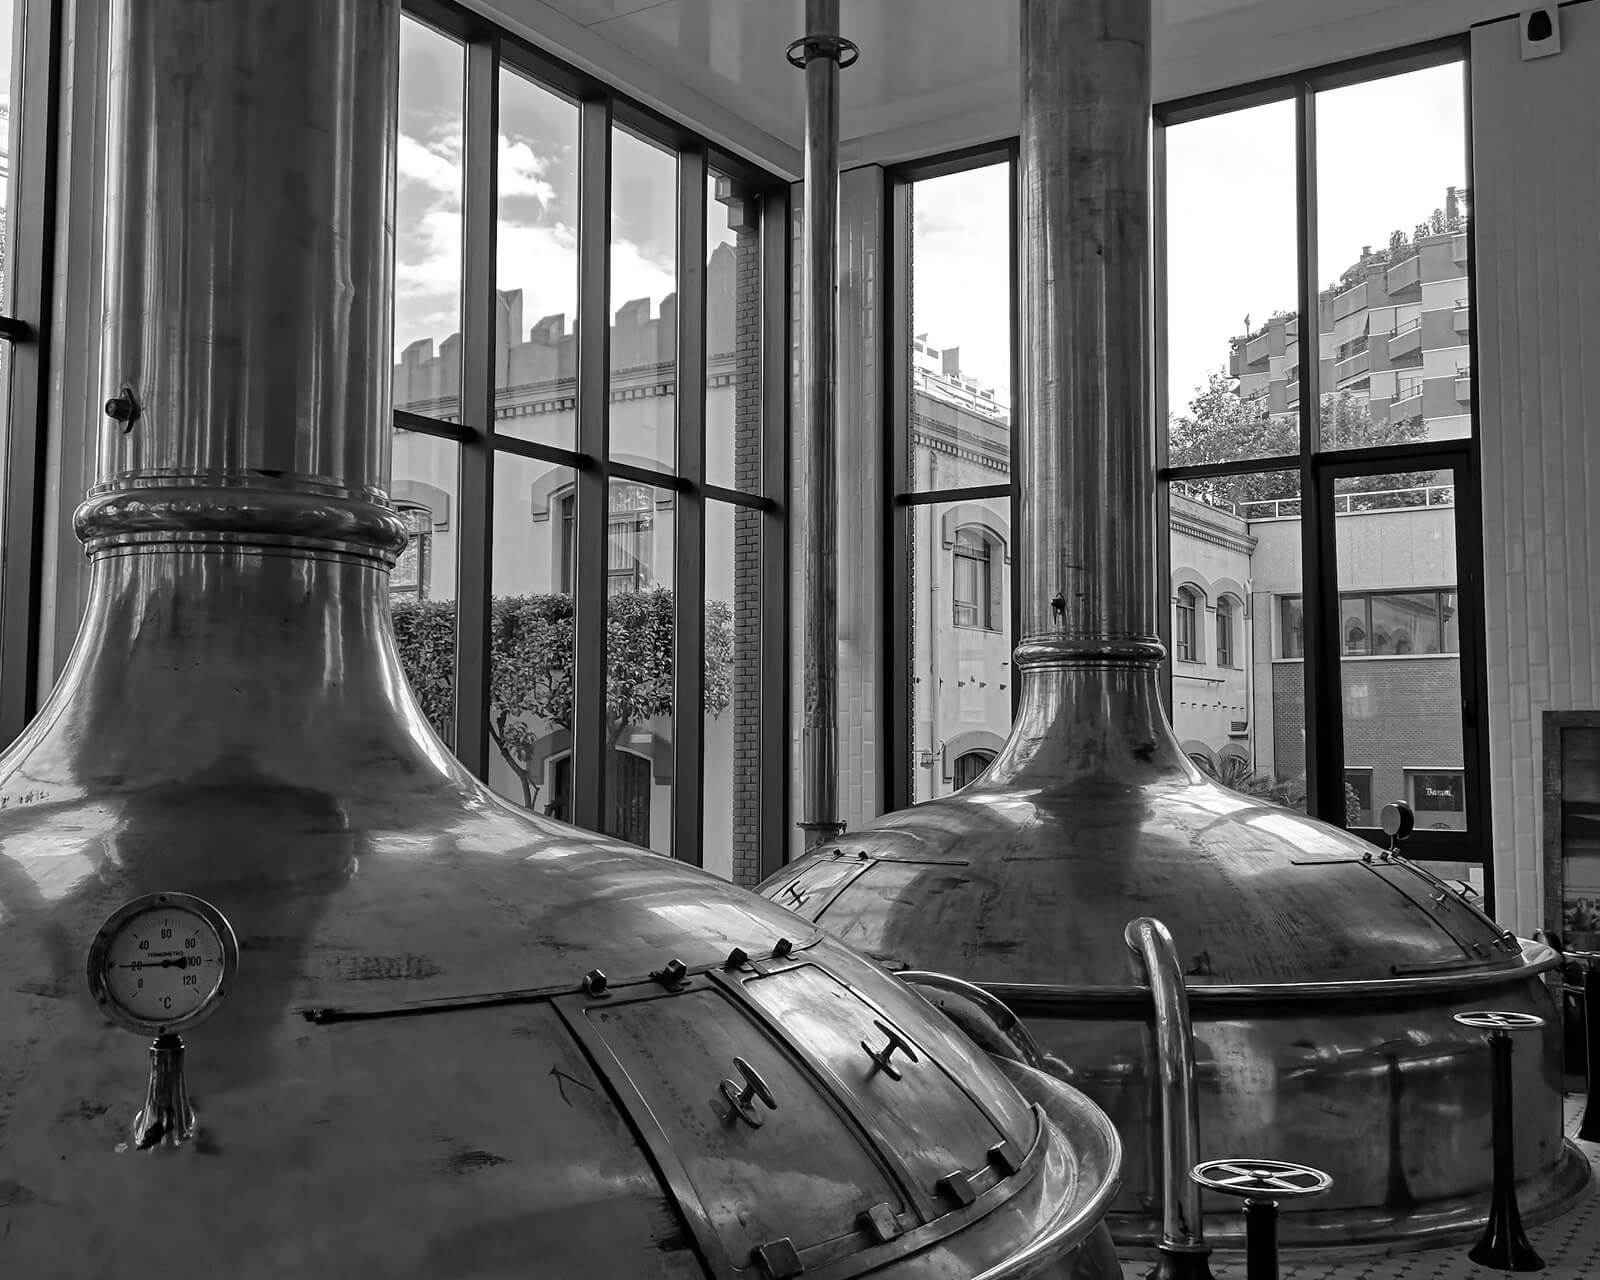
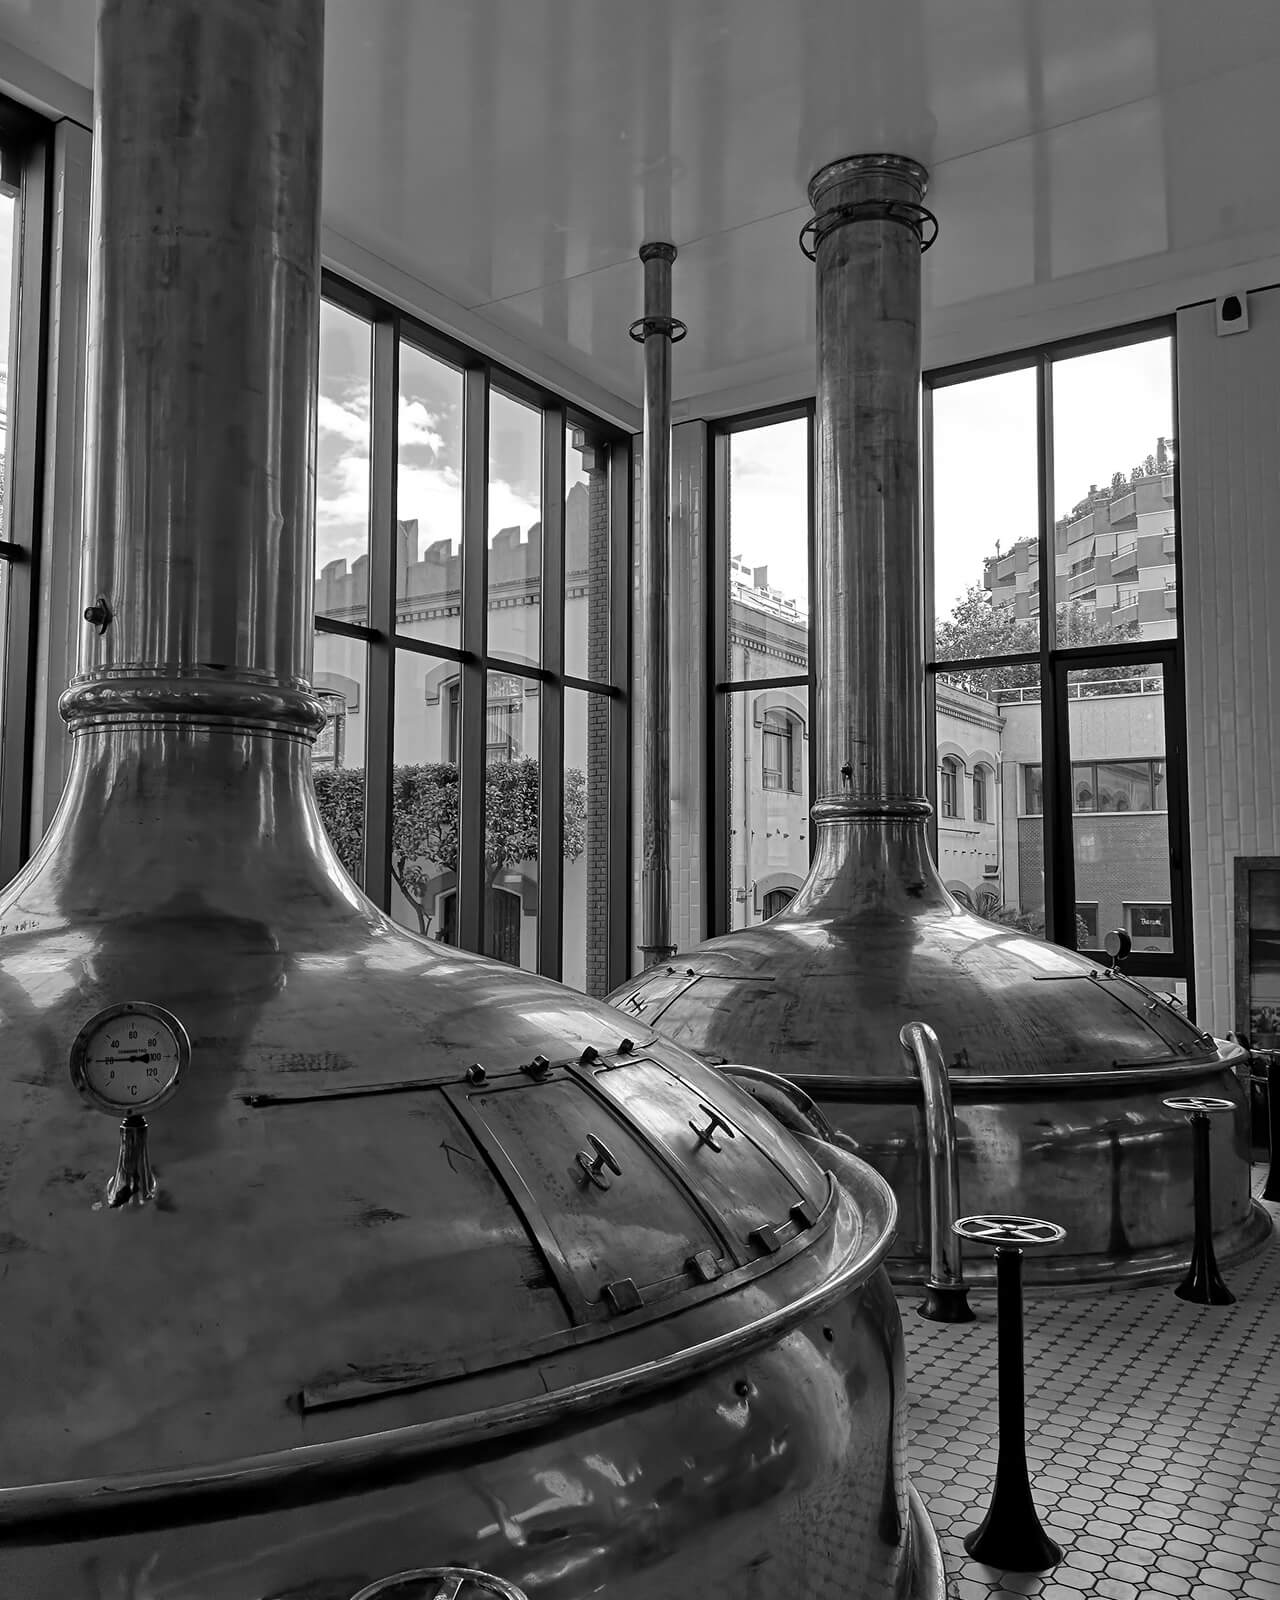
adiciona mediaquerie na sessao about-contact

diff --git a/css/about-contact.css b/css/about-contact.css
@@ -53,18 +53,76 @@
   font-weight: 400;
 }
 
-.about-contact .contact .since{
-    width: 100%;
-    height: 180px;
-    padding: 30px 0 30px;    
-    border-top: 1px solid var(--text-color-secondary);
+.about-contact .contact .since {
+  width: 100%;
+  height: 180px;
+  padding: 30px 0 30px;
+  border-top: 1px solid var(--text-color-secondary);
 }
 
-.about-contact .contact .since p{
-    font-family: "Staatliches", sans-serif ;
-    font-size: 100px;
-    font-weight: 400;
-    line-height: 80%;
-    letter-spacing: 0.01em;
-    margin: auto 0;
+.about-contact .contact .since p {
+  font-family: "Staatliches", sans-serif;
+  font-size: 100px;
+  font-weight: 400;
+  line-height: 80%;
+  letter-spacing: 0.01em;
+  margin: auto 0;
+}
+
+@media screen and (min-width: 768px) {
+  .about-contact .img-contact {
+    width: 100%;
+    height: 640px;
+    background: url(../img/contact-info-tablet.jpg) no-repeat;
+    background-size: cover;
+  }
+
+  .about-contact .contact .infos p {
+    font-size: 14px;
+  }
+
+  .about-contact .contact .infos .info h3 {
+    font-size: 24px;
+    line-height: 135%;
+  }
+
+  .about-contact .contact {
+    gap: 377px;
+  }
+  .about-contact .contact .since {
+    width: 435px;
+  }
+  .about-contact .contact .since p {
+    font-size: 130px;
+  }
+}
+
+@media screen and (min-width: 1280px) {
+  .about-contact {
+    display: grid;
+    grid-template-columns: 1fr 1fr;
+  }
+  .about-contact .img-contact {
+    width: 100%;
+    height: 800px;
+    background: url(../img/contact-info-desktop.jpg) no-repeat;
+    background-size: cover;
+  }
+  .about-contact .contact .infos p {
+    font-size: 15px;
+  }
+  .about-contact .contact .infos .info h3 {
+    font-size: 30px;
+    line-height: 130%;
+  }
+  .about-contact .contact {
+    gap: 354px;
+  }
+  .about-contact .contact .since {
+    width: 100%;
+  }
+  .about-contact .contact .since p {
+    font-size: 150px;
+    text-align: center;
+  }
 }
